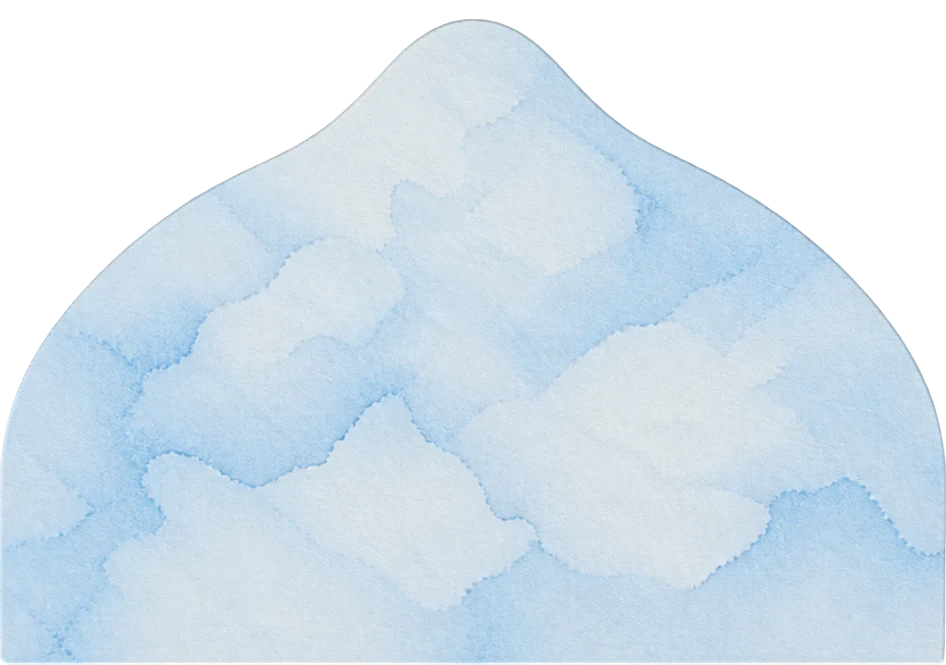
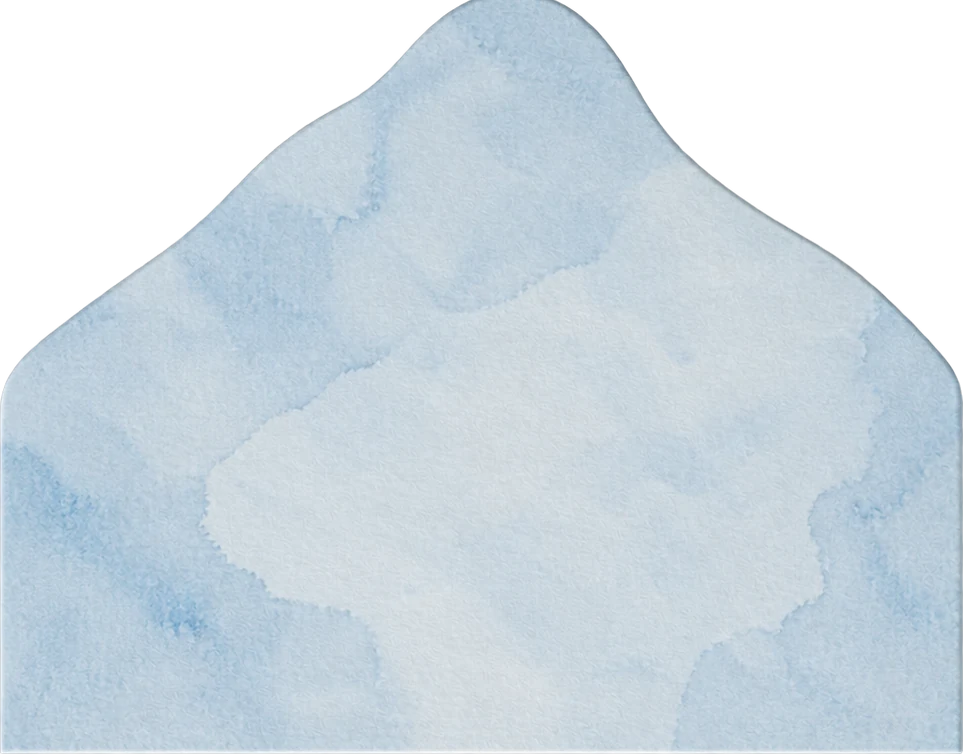
RSVP: second take on the upright envelope art
New front, flap and flap inside for the phone envelope (the liner is reused),
registered onto the closed render the art came from. The flap leaves a
sliver of the opening uncovered when sealed, so the back is paper-coloured
there and the card stays hidden until the flap starts to open. The monogram
moves to the clear patch in the middle of the new flap.

diff --git a/src/components/sections/RSVP.tsx b/src/components/sections/RSVP.tsx
@@ -89,7 +89,7 @@ interface Geometry {
  */
 const ENVELOPE = {
   h: { aspect: 1493 / 828, flap: 546 / 828 },
-  v: { aspect: 946 / 1525, flap: 665 / 1525 },
+  v: { aspect: 963 / 1491, flap: 754 / 1491 },
 }
 
 /** Space kept under the envelope for the "scroll to open" hint. */
@@ -243,6 +243,9 @@ export function RSVP({ guest }: Props) {
   // The card stays behind the pocket until the envelope has fallen away, so
   // stepping in front never covers paper that was in front of it a frame ago.
   const cardZ = useTransform(p, (v) => (v > T.settled - 0.01 ? 7 : 3))
+  // Out of sight while the envelope is sealed, so no white paper shows where
+  // the flap's edge leaves a sliver of the opening uncovered.
+  const cardOpacity = useTransform(p, (v) => (v >= T.flapStart ? 1 : 0))
 
   const box = (width: number, height: number) => ({
     width,
@@ -361,6 +364,7 @@ export function RSVP({ guest }: Props) {
             y: cardY,
             scale: cardScale,
             zIndex: cardZ,
+            opacity: cardOpacity,
           }}
         >
           <motion.div
@@ -395,7 +399,7 @@ export function RSVP({ guest }: Props) {
  */
 const EMBOSS = {
   h: { x: 0.66, y: 0.36, size: 0.045 },
-  v: { x: 0.83, y: 0.25, size: 0.055 },
+  v: { x: 0.5, y: 0.3, size: 0.075 },
 }
 
 /**
